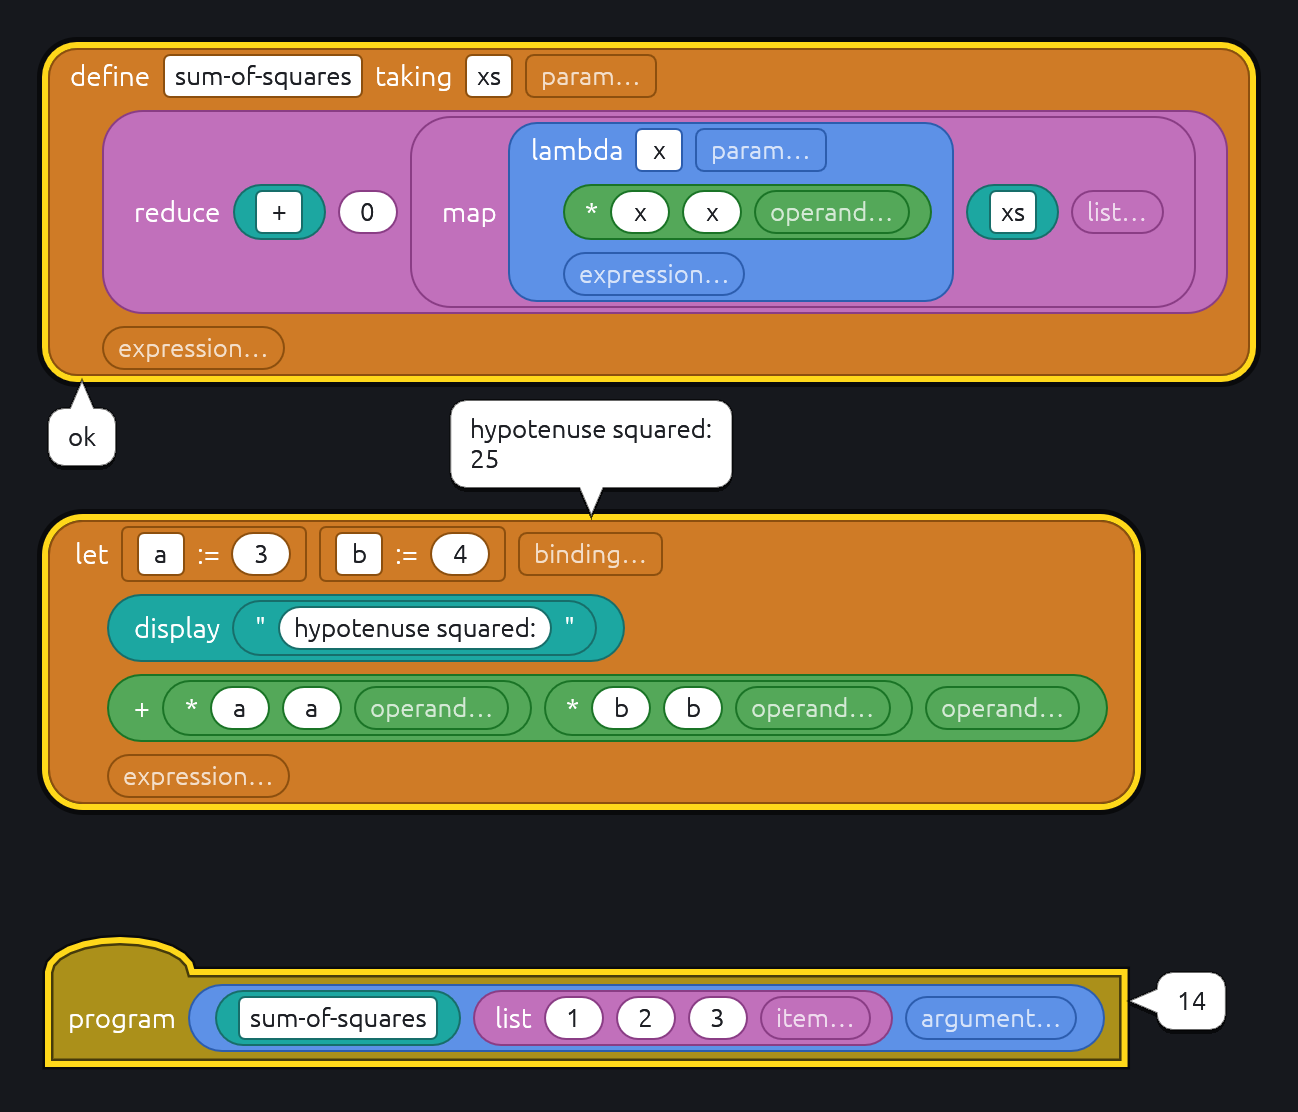
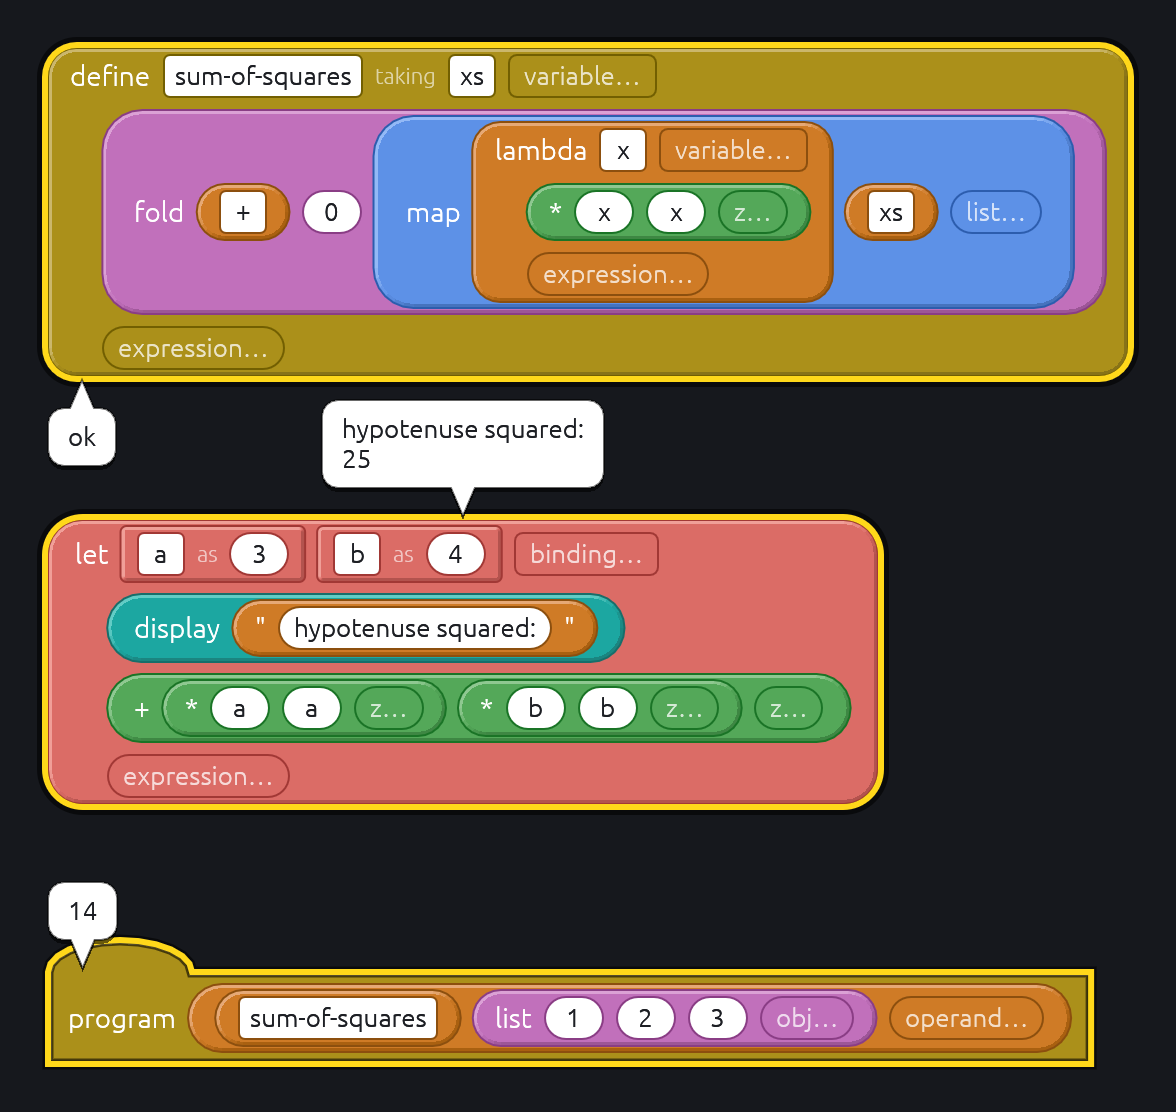
Review fixes: faint label test, exact R7RS titles, new screenshot
A layout test with a font-aware measure checks that faint labels are
measured and placed as faint. Categories use R7RS's exact section titles
("Primitive expression types", "Derived expression types"). The Block
Schemer screenshot is re-rendered with the new names and faint words.

diff --git a/crates/block-parse-gui/src/layout.rs b/crates/block-parse-gui/src/layout.rs
@@ -46,7 +46,6 @@ pub trait Measure {
 #[derive(Debug, Clone, Copy, PartialEq, Eq, Hash)]
 pub enum Font {
     Label,
-    /// A faint label's.
     Faint,
     Literal,
 }
@@ -1061,6 +1060,46 @@ mod tests {
 
     fn placed(scene: &Scene, id: BlockId) -> &PlacedBlock {
         scene.blocks.iter().find(|block| block.id == id).unwrap()
+    }
+
+    #[test]
+    fn faint_labels_are_measured_and_placed_as_faint() {
+        /// Faint text half as wide as plain.
+        struct ByFont;
+        impl Measure for ByFont {
+            fn text_width(&self, text: &str, font: Font) -> f32 {
+                let per_char = if font == Font::Faint { 3.5 } else { 7.0 };
+                per_char * text.chars().count() as f32
+            }
+        }
+        let language = Language::from_ron(
+            r#"Language(
+                name: "t",
+                file: (extension: "t"),
+                types: { "n": (literal: Text) },
+                blocks: [(id: "if", name: "If", spec: "if {a:n} _then_ {b:n}")],
+            )"#,
+            &Validators::new(),
+        )
+        .unwrap();
+        let (program, ids) = with_stack(&language, &["if"]);
+        let swatches = Swatches::resolve(&language, &SwatchRecipe::default());
+        let scene = Layout {
+            language: &language,
+            measure: &ByFont,
+            swatches: &swatches,
+            editing: None,
+            validate: true,
+            lifted: None,
+        }
+        .program(&program);
+
+        let block = placed(&scene, ids[0]);
+        let faint: Vec<_> = block.labels.iter().map(|label| (label.text.as_str(), label.faint)).collect();
+        assert_eq!(faint, [("if", false), ("then", true)]);
+        let then = &block.labels[1];
+        let next = block.slots.iter().find(|slot| slot.slot == Slot::input("b")).unwrap();
+        assert_eq!(next.rect.min.x - then.at.x, 3.5 * 4.0 + ITEM_GAP);
     }
 
     #[test]

diff --git a/crates/block-parse-gui/src/paint.rs b/crates/block-parse-gui/src/paint.rs
@@ -261,9 +261,10 @@ fn paint_block(
     }
 
     for label in &block.labels {
-        let (size, ink) = match label.faint {
-            true => (FAINT_SIZE, swatch.ink.gamma_multiply(0.6)),
-            false => (LABEL_SIZE, swatch.ink),
+        let (size, ink) = if label.faint {
+            (FAINT_SIZE, swatch.ink.gamma_multiply(0.6))
+        } else {
+            (LABEL_SIZE, swatch.ink)
         };
         let font = FontId::proportional(size * t.zoom);
         painter.text(t.pos(label.at), Align2::LEFT_CENTER, &label.text, font, ink);

diff --git a/crates/block-parse/src/language.rs b/crates/block-parse/src/language.rs
@@ -272,7 +272,7 @@ pub enum Part {
 #[derive(Debug, Clone, PartialEq, Eq)]
 pub struct Label {
     pub text: String,
-    /// Drawn smaller and fainter.
+    /// A reading aid, not part of the language.
     pub faint: bool,
 }
 

diff --git a/AGENTS.md b/AGENTS.md
@@ -14,9 +14,9 @@ block editor in `~/rust/jellycell/src/coder/`, which is one hard-coded case.
     / Reporter(type); a spec string like
     `"repeat {times:number=10} [body]"` gives inputs and C-block branches,
     `{args:datum*}` (or `+`, at least one) a list of inputs, and a word
-    wrapped in underscores (`_then_`) a faint label, smaller and dimmer. A block's
-    `layout` is `Inline` or `Body(n)`: the first `n` inputs on the first row,
-    later ones and later lists' items on indented rows of their own
+    wrapped in underscores (`_then_`) a faint label, smaller and dimmer. A
+    block's `layout` is `Inline` or `Body(n)`: the first `n` inputs on the
+    first row, later ones and later lists' items on indented rows of their own
     (`documentation/03-variadic.md`). A blank slot shows its input's name as a
     faded hint, or the block's `hints` text for it, and no validation error
     until there is text to check; a list's empty slot shows it

diff --git a/documentation/05-block-schemer.md b/documentation/05-block-schemer.md
@@ -19,8 +19,9 @@ cargo schemer crates/block-schemer/examples/sum-of-squares.scmb
   names, so most blocks generate `(opcode arguments…)` in spec order.
   Categories are R7RS's section titles and inputs its argument names
   (`proc`, `formals`, `z`), except `cons`, whose inputs are `car` and `cdr`.
-  Words that are not Scheme, such as `if`'s `then` and `else`, are faint.
-  `fold` is SRFI 1's, with its names; Steel's takes one list.
+  Connecting words that are not Scheme, such as `if`'s `then` and `else`,
+  are faint. `fold` is SRFI 1's, with its names, filed under Pairs and lists;
+  Steel's takes one list.
 - `literals`: validators for the `datum` type (a number, boolean, character,
   string in quotes or symbol) and the `symbol` type (an identifier). The
   editor shows text they refuse as a problem, and the code generator emits
